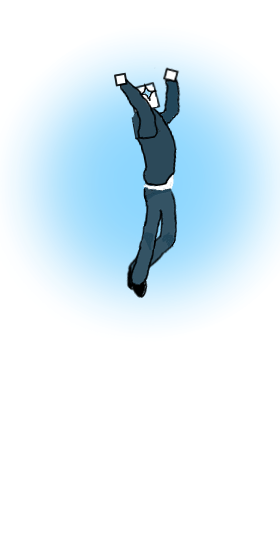
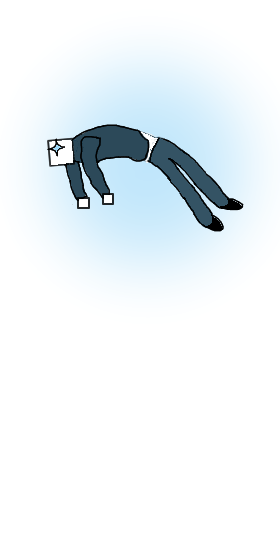
Pushed attack frame rework, just used move sprite for stage3 healer

Changed region(s): [[0.1143, 0.1236, 0.9714, 0.5564]]

diff --git a/SRanger.java b/SRanger.java
@@ -33,7 +33,7 @@ public class SRanger extends Square
             knockbacks = 6;
             speed = 2;
             atk = 6;
-            attackFrame = 0;
+            attackFrame = 6;
             break;
             
             case 2:
@@ -46,7 +46,7 @@ public class SRanger extends Square
             knockbacks = 6;
             speed = 2;
             atk = 12;
-            attackFrame = 0;
+            attackFrame = 3;
             break;
             
             case 3:

diff --git a/SHealer.java b/SHealer.java
@@ -64,6 +64,16 @@ public class SHealer extends Square
     }
     
     //Andy's code
+    public void addedToWorld(World world)
+    {
+        if(justAddedToWorld)
+        {
+            super.addedToWorld(world);
+            range = 300;
+            standingRange = range - range/10;
+        }
+    }
+    
     protected void attack()
     {
         List<Square> potentialTargets = getObjectsInRange(range, Square.class);
